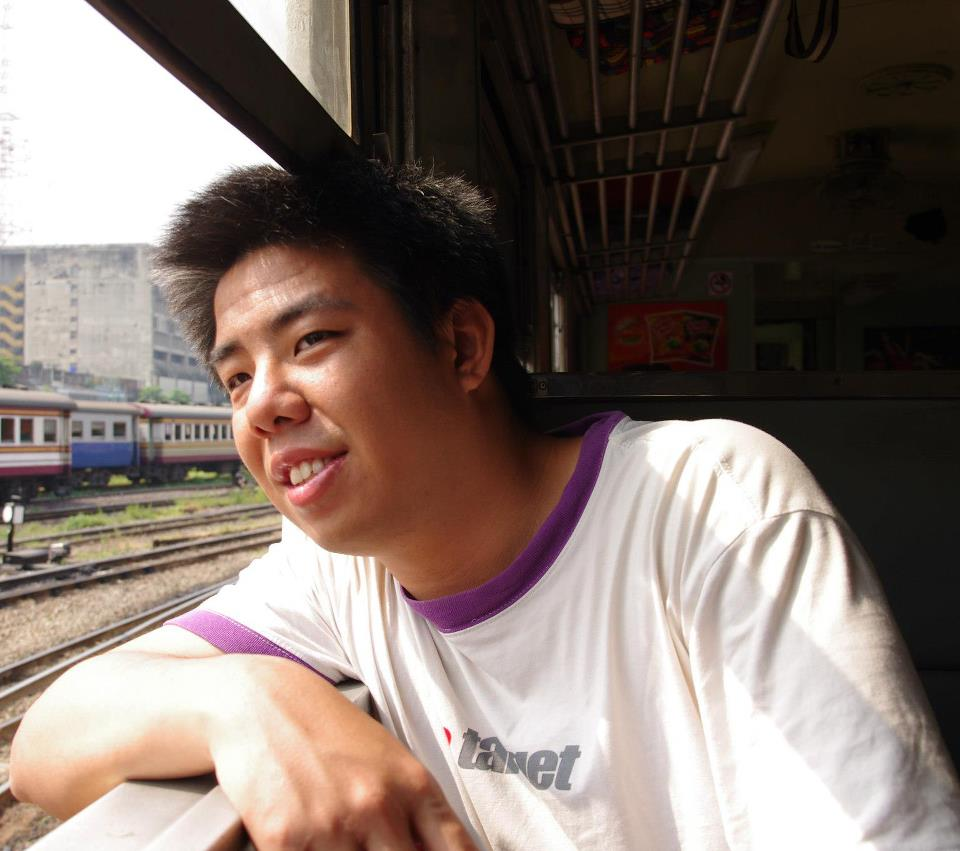
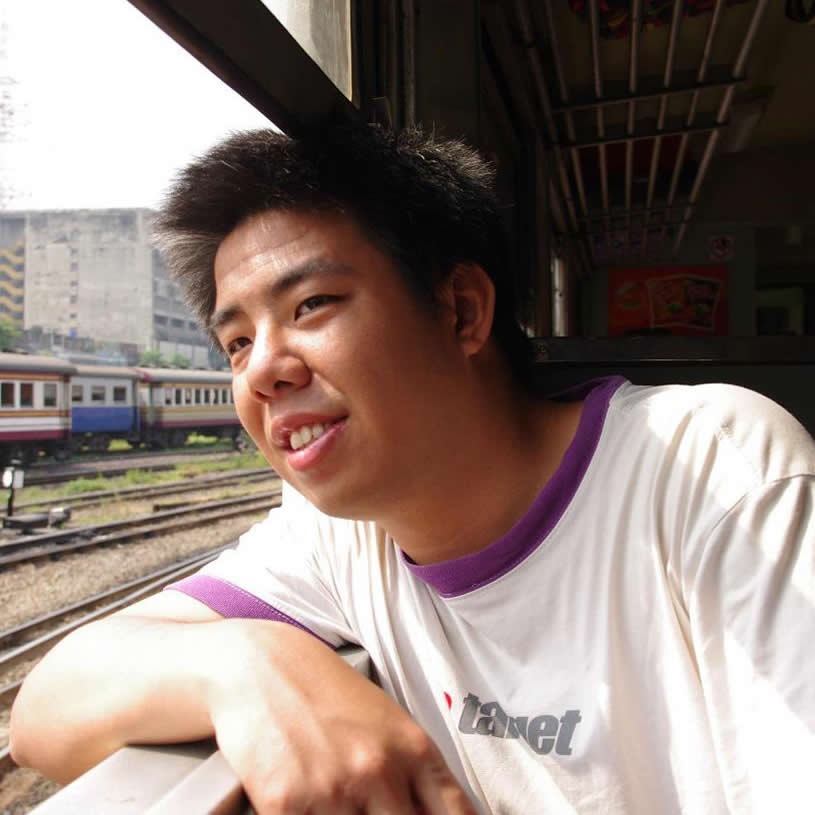
Update speaker photo and style.

diff --git a/2013/css/speakers.css b/2013/css/speakers.css
@@ -176,9 +176,28 @@ body {
 
 .avatar {
   text-align: center;
-  padding: 10px; }
+  width: 200px;
+  height: 200px;
+  border: 5px solid #f6f6f6;
+  overflow: hidden;
+  background: #1c94c4;
+  margin: 5px auto;
+  -webkit-box-shadow: 1px 1px 2px rgba(0, 0, 0, 0.2);
+  -moz-box-shadow: 1px 1px 2px rgba(0, 0, 0, 0.2);
+  box-shadow: 1px 1px 2px rgba(0, 0, 0, 0.2);
+  -webkit-border-radius: 125px;
+  -moz-border-radius: 125px;
+  border-radius: 125px;
+  -webkit-transition: all 400ms linear;
+  -moz-transition: all 400ms linear;
+  -o-transition: all 400ms linear;
+  -ms-transition: all 400ms linear;
+  transition: all 400ms linear; }
   .avatar img {
-    width: 150px; }
+    position: relative;
+    top: 50%;
+    width: 200px;
+    margin-top: -100px; }
 
 .profile .name {
   font-weight: bold;

diff --git a/2013/sass/speakers.sass b/2013/sass/speakers.sass
@@ -8,9 +8,29 @@
 
 .avatar
   text-align: center
-  padding: 10px
+  width: 200px
+  height: 200px
+  border: 5px solid #f6f6f6
+  overflow: hidden
+  background: #1c94c4
+  margin: 5px auto
+  -webkit-box-shadow: 1px 1px 2px rgba(0, 0, 0, 0.2)
+  -moz-box-shadow: 1px 1px 2px rgba(0, 0, 0, 0.2)
+  box-shadow: 1px 1px 2px rgba(0, 0, 0, 0.2)
+  -webkit-border-radius: 125px
+  -moz-border-radius: 125px
+  border-radius: 125px
+  -webkit-transition: all 400ms linear
+  -moz-transition: all 400ms linear
+  -o-transition: all 400ms linear
+  -ms-transition: all 400ms linear
+  transition: all 400ms linear
+
   img
-    width: 150px
+    position: relative
+    top: 50%
+    width: 200px
+    margin-top: -100px
 
 .profile
   .name

diff --git a/2013/index.html b/2013/index.html
@@ -461,6 +461,11 @@
     window.jQuery || document.write('<script src="js/jquery-1.10.1.min.js"><\/script>')
 </script>
 <script src="bootstrap/js/bootstrap.min.js"></script>
+<script>
+(function () {
+    $archive = $('.archive');
+})();
+</script>
 </body>
 
 </html>
